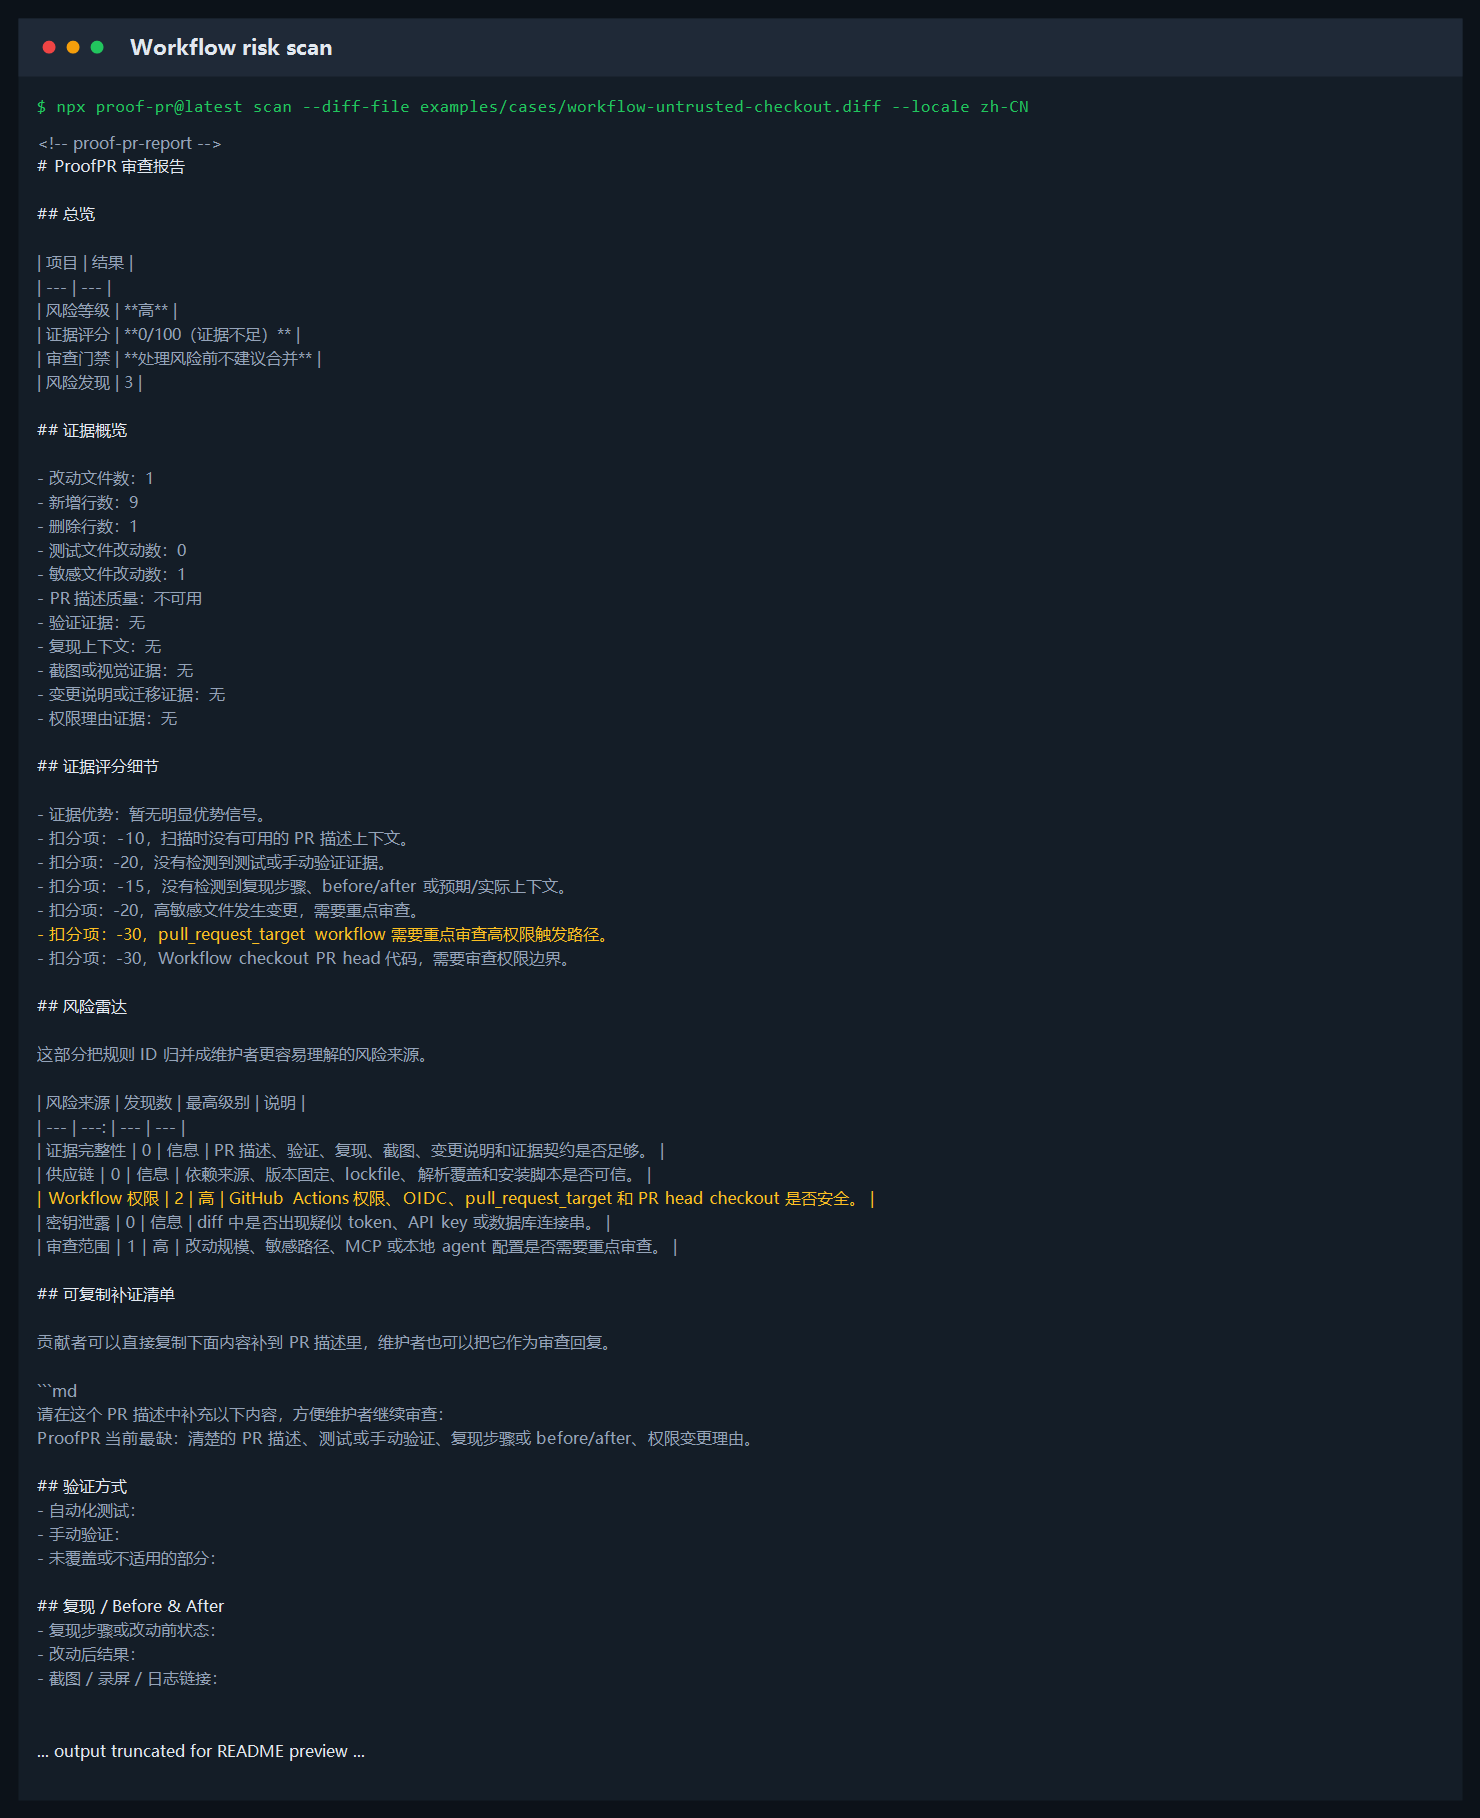
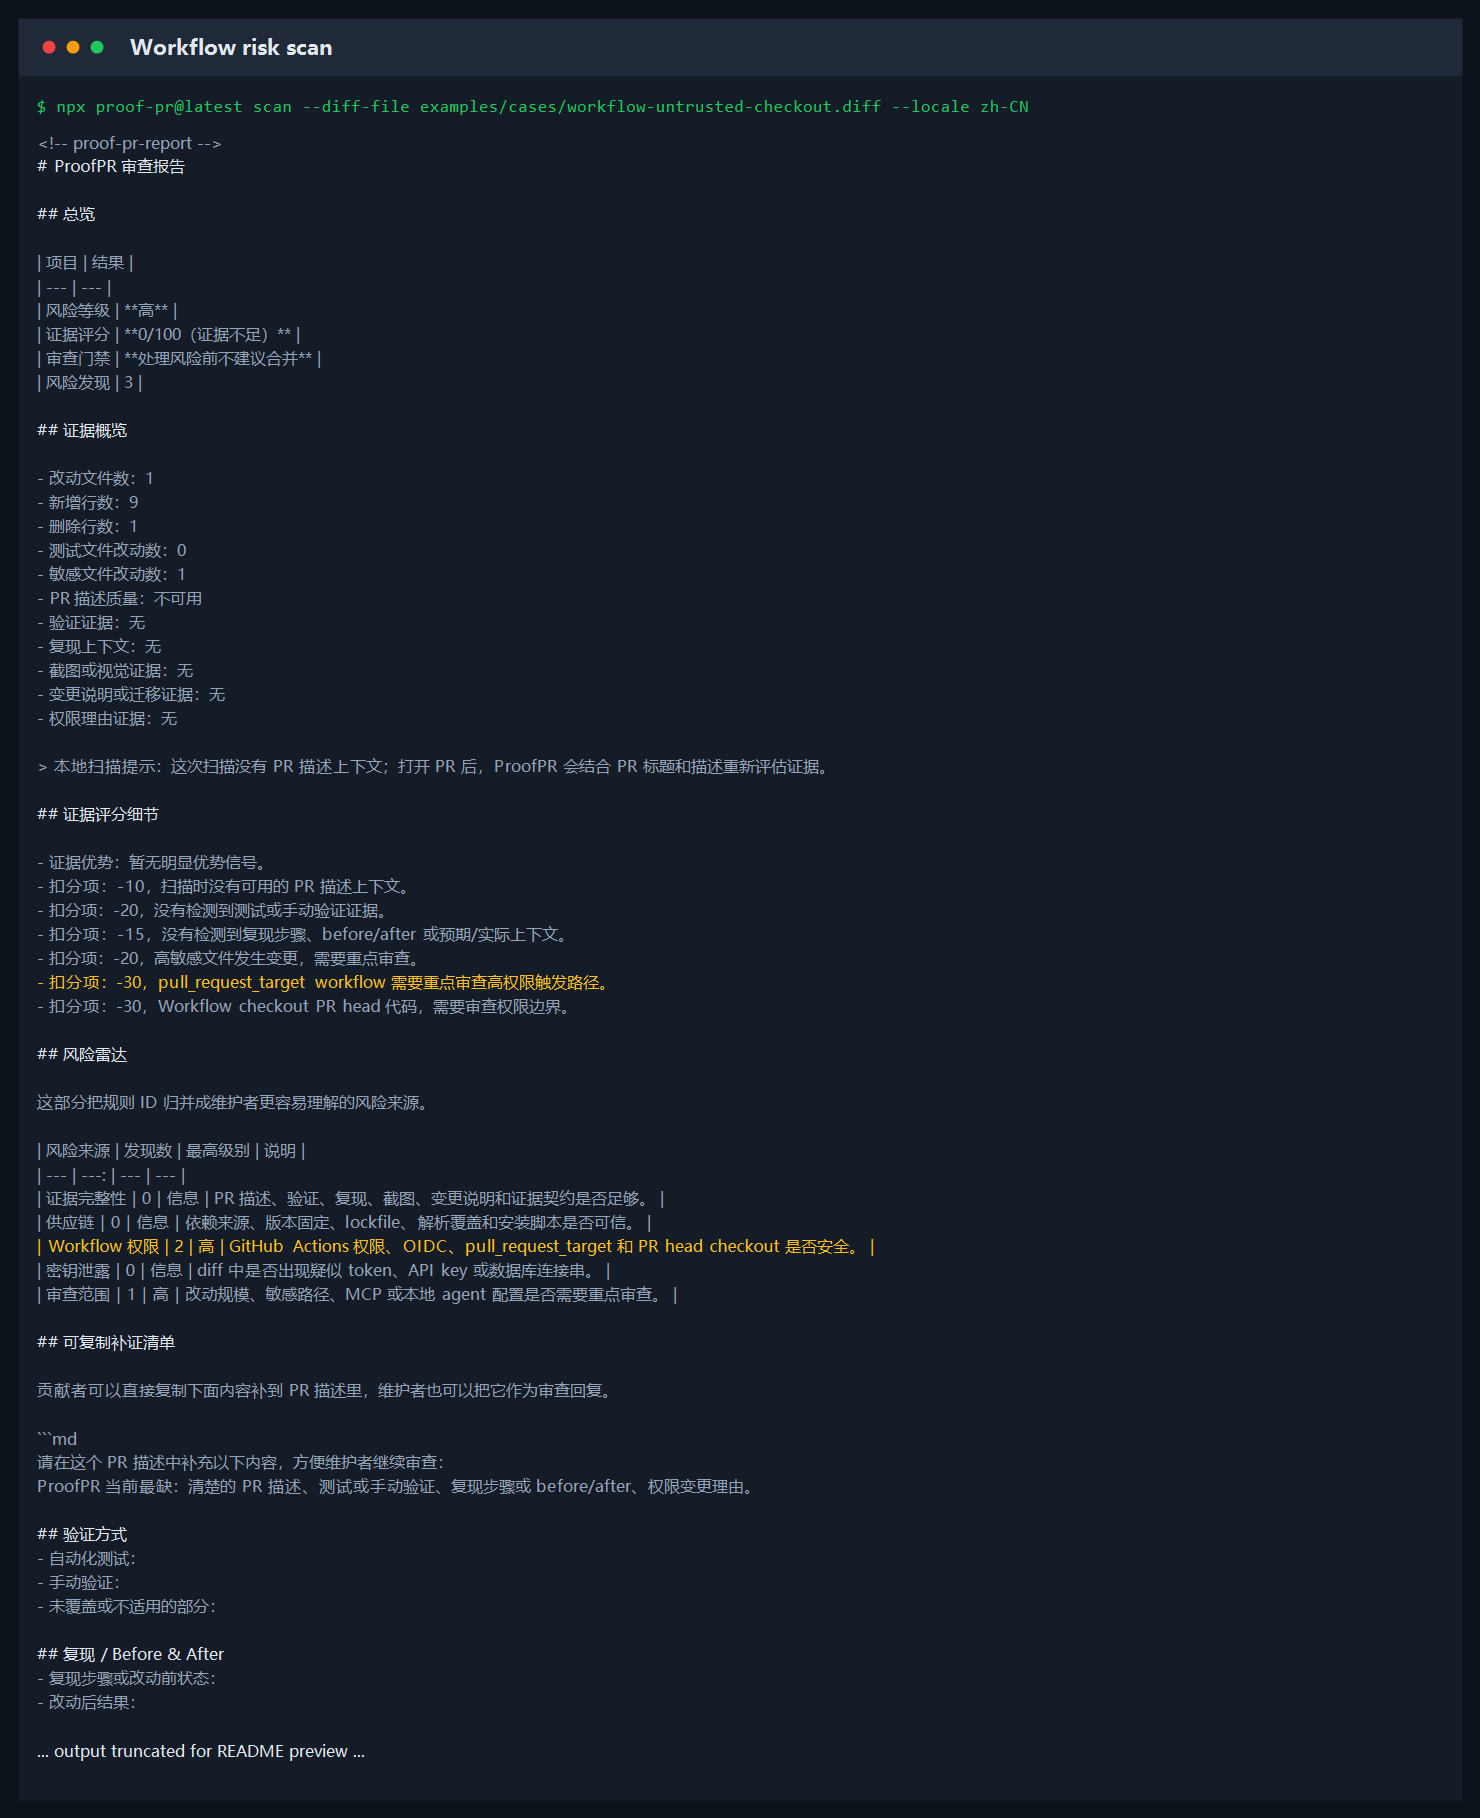
feat: explain local PR context in reports

diff --git a/packages/github-action/action-dist/index.js b/packages/github-action/action-dist/index.js
@@ -51418,6 +51418,7 @@ function renderEnglishMarkdownReport(result) {
         `- Permission rationale: ${formatBoolean(result.summary.permissionRationaleEvidence)}`,
         ""
     ];
+    appendUnavailablePrContextNote(lines, result, "en");
     appendEvidenceScoreSection(lines, result, "en");
     appendRiskRadarSection(lines, result, "en");
     appendQuickFixSection(lines, result, "en");
@@ -51462,6 +51463,7 @@ function renderChineseMarkdownReport(result) {
         `- 权限理由证据：${formatChineseBoolean(result.summary.permissionRationaleEvidence)}`,
         ""
     ];
+    appendUnavailablePrContextNote(lines, result, "zh-CN");
     appendEvidenceScoreSection(lines, result, "zh-CN");
     appendRiskRadarSection(lines, result, "zh-CN");
     appendQuickFixSection(lines, result, "zh-CN");
@@ -51476,6 +51478,14 @@ function renderChineseMarkdownReport(result) {
     }
     lines.push("## 维护者关注点", "", ...maintainerFocus(result.findings, "zh-CN").map((item) => `- ${item}`), "");
     return lines.join("\n");
+}
+function appendUnavailablePrContextNote(lines, result, locale) {
+    if (result.summary.pullRequestDescription !== "unavailable") {
+        return;
+    }
+    lines.push(locale === "zh-CN"
+        ? "> 本地扫描提示：这次扫描没有 PR 描述上下文；打开 PR 后，ProofPR 会结合 PR 标题和描述重新评估证据。"
+        : "> Local scan note: PR description context was not available; in GitHub PR mode, ProofPR will re-evaluate using the PR title and body.", "");
 }
 function appendEvidenceScoreSection(lines, result, locale) {
     lines.push(locale === "zh-CN" ? "## 证据评分细节" : "## Evidence Score", "");

diff --git a/packages/core/src/reporters.ts b/packages/core/src/reporters.ts
@@ -799,6 +799,7 @@ function renderEnglishMarkdownReport(result: ScanResult): string {
     ""
   ];
 
+  appendUnavailablePrContextNote(lines, result, "en");
   appendEvidenceScoreSection(lines, result, "en");
   appendRiskRadarSection(lines, result, "en");
   appendQuickFixSection(lines, result, "en");
@@ -855,6 +856,7 @@ function renderChineseMarkdownReport(result: ScanResult): string {
     ""
   ];
 
+  appendUnavailablePrContextNote(lines, result, "zh-CN");
   appendEvidenceScoreSection(lines, result, "zh-CN");
   appendRiskRadarSection(lines, result, "zh-CN");
   appendQuickFixSection(lines, result, "zh-CN");
@@ -879,6 +881,19 @@ function renderChineseMarkdownReport(result: ScanResult): string {
   );
 
   return lines.join("\n");
+}
+
+function appendUnavailablePrContextNote(lines: string[], result: ScanResult, locale: ReportLocale): void {
+  if (result.summary.pullRequestDescription !== "unavailable") {
+    return;
+  }
+
+  lines.push(
+    locale === "zh-CN"
+      ? "> 本地扫描提示：这次扫描没有 PR 描述上下文；打开 PR 后，ProofPR 会结合 PR 标题和描述重新评估证据。"
+      : "> Local scan note: PR description context was not available; in GitHub PR mode, ProofPR will re-evaluate using the PR title and body.",
+    ""
+  );
 }
 
 function appendEvidenceScoreSection(lines: string[], result: ScanResult, locale: ReportLocale): void {

diff --git a/packages/core/src/scan.test.ts b/packages/core/src/scan.test.ts
@@ -587,6 +587,8 @@ index 0000000..1111111 100644
     expect(report).toContain("风险雷达");
     expect(report).toContain("审查行动清单");
     expect(report).toContain("风险发现");
+    expect(report).toContain("本地扫描提示");
+    expect(report).toContain("打开 PR 后，ProofPR 会结合 PR 标题和描述重新评估证据");
   });
 
   it("renders Simplified Chinese supply-chain finding text", () => {

diff --git a/packages/cli/src/index.ts b/packages/cli/src/index.ts
@@ -23,7 +23,7 @@ import {
 } from "@proof-pr/core";
 
 const execFileAsync = promisify(execFile);
-const CLI_VERSION = "0.1.47";
+const CLI_VERSION = "0.1.48";
 
 type OutputFormat = "json" | "markdown" | "sarif" | "html";
 type FailLevel = RiskLevel | "never";

diff --git a/docs/release.md b/docs/release.md
@@ -1,6 +1,6 @@
 # 发布流程
 
-当前最新公开版本是 `0.1.47`。
+当前最新公开版本是 `0.1.48`。
 
 ## 发布前检查
 
@@ -52,8 +52,8 @@ npm 官方要求 trusted publishing 使用 npm 11.5.1+ 和 Node 22.14+；`npm tr
 确认 `pnpm release:check` 通过后：
 
 ```bash
-git tag v0.1.47
-git push origin v0.1.47
+git tag v0.1.48
+git push origin v0.1.48
 ```
 
 发布完成后需要检查：
@@ -66,9 +66,17 @@ npx proof-pr@latest --version
 当前验证结果：
 
 ```txt
-npm view proof-pr version -> 0.1.47
-npx proof-pr@latest --version -> 0.1.47
+npm view proof-pr version -> 0.1.48
+npx proof-pr@latest --version -> 0.1.48
 ```
+
+## `v0.1.48` 发布状态
+
+`v0.1.48` 是本地扫描上下文提示版，重点包括：
+
+- Markdown 报告在缺少 PR 描述上下文时新增“本地扫描提示”，说明打开 PR 后会结合 PR 标题和描述重新评估证据。
+- 避免用户本地运行 `check` 时看到 PR 描述扣分，就误以为规则不准确。
+- README、命令文档、快速开始和 npm README 同步解释本地模式与 PR 模式的区别。
 
 ## `v0.1.47` 发布状态
 
@@ -354,7 +362,7 @@ npx proof-pr@latest --version -> 0.1.47
 
 ## 版本说明
 
-`0.1.8` 已经发布到 npm，但 CLI `--version` 仍显示旧版本。`0.1.47` 继承了后续修复，并且是当前推荐使用版本。
+`0.1.8` 已经发布到 npm，但 CLI `--version` 仍显示旧版本。`0.1.48` 继承了后续修复，并且是当前推荐使用版本。
 
 ## 发布后动作
 

diff --git a/docs/commands.md b/docs/commands.md
@@ -121,7 +121,7 @@ npx proof-pr@latest doctor
 - `.github/workflows/proofpr.yml` 是否存在。
 - `.github/pull_request_template.md` 是否存在，以及是否提示验证、复现、截图或权限理由。
 - workflow 是否监听 `pull_request`。
-- workflow 是否使用当前推荐的 `linsk27/proof-pr@v0.1.47`。
+- workflow 是否使用当前推荐的 `linsk27/proof-pr@v0.1.48`。
 - 是否具备 `pull-requests: write` 和 `contents: read` 权限。
 - 是否启用了 `html-output` 和 `actions/upload-artifact`，方便下载 HTML 可视化报告。
 - 当前目录是否在 Git 仓库里，以及自动识别出的 base...HEAD diff 是否可读。
@@ -143,6 +143,8 @@ npx proof-pr@latest check
 ```
 
 适合在发 PR 前自查。它会自动选择 `origin/main`、`origin/master`、`main` 或 `master` 作为 base，并扫描当前工作区相对 base 的最终状态：已提交分支 diff、staged、unstaged 和未跟踪新文件都会纳入。输出包括风险等级、证据评分、审查门禁和行动清单。
+
+本地运行时通常没有 PR 标题和描述上下文，报告会明确提示这一点；打开 PR 后，ProofPR 会结合 PR 标题和描述重新评估证据。
 
 如果当前没有可扫描 diff，`check` 会输出短提示，说明这不是错误；刚接入但还没有业务改动时不需要处理，提交业务改动后再检查即可。
 

diff --git a/docs/getting-started.md b/docs/getting-started.md
@@ -76,7 +76,7 @@ jobs:
     runs-on: ubuntu-latest
     steps:
       - uses: actions/checkout@v4
-      - uses: linsk27/proof-pr@v0.1.47
+      - uses: linsk27/proof-pr@v0.1.48
         with:
           fail-on: high
           comment: "true"
@@ -145,9 +145,9 @@ npx proof-pr@latest check
 npx proof-pr@latest request
 ```
 
-`check` 会自动选择常见主分支作为 base，并纳入已提交分支 diff、staged、unstaged 和未跟踪新文件。当前没有可扫描 diff 时，它只输出短提示和下一步建议；刚接入但还没有业务改动时不用处理。
+`check` 会自动选择常见主分支作为 base，并纳入已提交分支 diff、staged、unstaged 和未跟踪新文件。本地运行时通常没有 PR 标题和描述上下文，报告会提示这一点；打开 PR 后会结合 PR 标题和描述重新评估证据。当前没有可扫描 diff 时，它只输出短提示和下一步建议；刚接入但还没有业务改动时不用处理。
 
-如果第一行输出 `0.1.47`，说明你正在使用当前最新发布版。
+如果第一行输出 `0.1.48`，说明你正在使用当前最新发布版。
 
 也可以全局安装：
 

diff --git a/docs/README.md b/docs/README.md
@@ -17,8 +17,8 @@
 
 ## 当前发布
 
-- GitHub Release：[`v0.1.47`](https://github.com/linsk27/proof-pr/releases/tag/v0.1.47)
-- npm：[`proof-pr@0.1.47`](https://www.npmjs.com/package/proof-pr)
+- GitHub Release：[`v0.1.48`](https://github.com/linsk27/proof-pr/releases/tag/v0.1.48)
+- npm：[`proof-pr@0.1.48`](https://www.npmjs.com/package/proof-pr)
 - 核心能力：判断 PR 是否值得审查、指出缺失证据、标出高风险改动区域，并生成维护者行动清单。
 - 辅助能力：HTML 报告、GitHub annotations、SARIF、benchmark、真实案例库和 npm Trusted Publishing 发布流程。
 
@@ -29,7 +29,7 @@ npm view proof-pr version
 npx proof-pr@latest --version
 ```
 
-当前都应输出 `0.1.47`。
+当前都应输出 `0.1.48`。
 
 不知道怎么开始时：
 

diff --git a/docs/roadmap.md b/docs/roadmap.md
@@ -31,7 +31,7 @@ ProofPR 的长期定位不是“又一个代码扫描器”，而是 **AI 时代
    代码侧材料已准备好，下一步需要仓库所有者在 GitHub 网页上确认发布。
 
 2. 发布链路稳定性
-   Trusted Publisher 已配置并通过 `v0.1.21` 到 `v0.1.47` 验证。后续重点是保持 release workflow 简单可审计，避免回退到本地 token 发布。
+   Trusted Publisher 已配置并通过 `v0.1.21` 到 `v0.1.48` 验证。后续重点是保持 release workflow 简单可审计，避免回退到本地 token 发布。
 
 3. 真实截图刷新
    用供应链增强规则重新跑一个 demo PR，补充新版依赖风险、HTML 报告和 benchmark 效果图。
